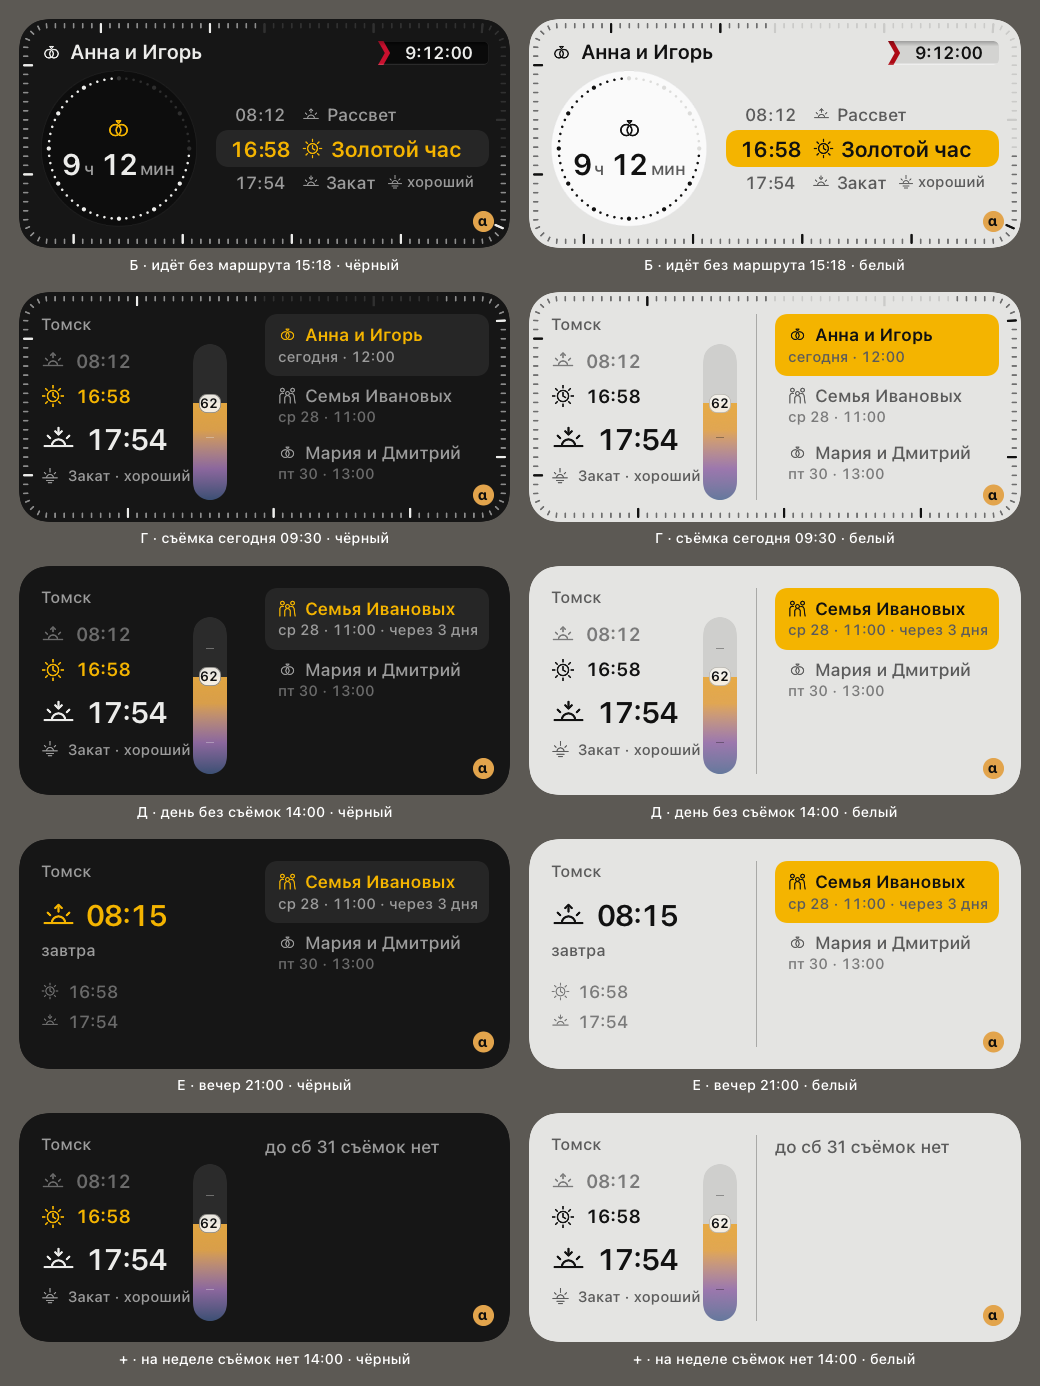
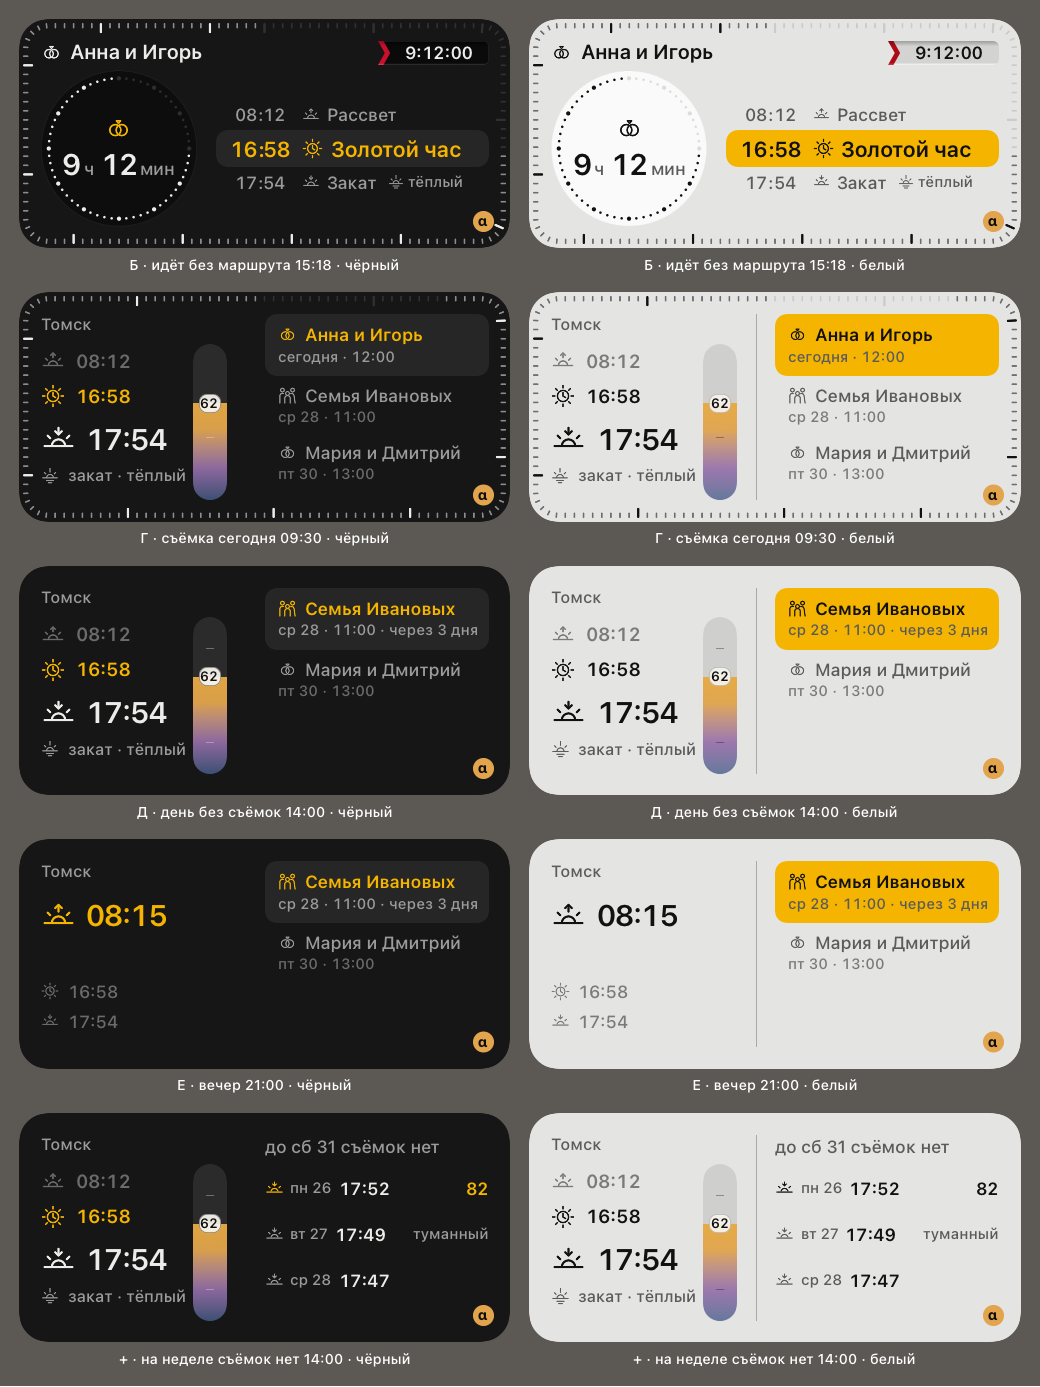
wip: средний Braun без съёмок на неделе показывает закаты трёх следующих дней (30и.13)
Алексей 16.11: «средний виджет без съемок тоже так надо научить, чтобы
пространство не пустовало» — справа под «до вс 22 съёмок нет» было пусто.
Теперь там три строки: день, время заката (считается на месте, есть всегда)
и балл числом, как в линзе столбика; часа в прогнозе нет — слово неба;
прогноза на день нет — одно время. Балл от 75 — янтарём. Только при пустой
неделе; съёмки есть — справа список, как был.

Раскладка: строки без полей (знак на x строки «съёмок нет»), кончаются выше
бирки «α» (3 × 32 на 170 pt, 3 × 28 на 158 pt). «/ 100» убрано: на 338 pt с
ним строка выходила в поле. Слово неба мельчает 11 → 9 по замеру ширины;
со Spacer остаток строки делился пополам и «туманный» резался при свободном
месте.

Прогноз в файле виджета — 3 дня (`ratingDays`): сегодня, завтра, послезавтра,
так что у третьей строки оценки обычно нет — только время. Число дней не
менял (это файл приложения).

Тесты: Domain `anEmptyWeekShowsTheNextThreeSunsets`, вид
`anEmptyWeekFillsTheRightSideWithTheNextSunsets` (строки видны, поле 16 и
место бирки чистые, оба размера, обе темы). Предел картинки листа idle
300 → 320 КБ. Не проходит только запись картинки купольного большого
(large.png 311 КБ > 300) — купол будут переделывать, предел не трогал.

diff --git a/Packages/LightPlanUI/Tests/LightPlanUITests/WidgetBraunIdleViewTests.swift b/Packages/LightPlanUI/Tests/LightPlanUITests/WidgetBraunIdleViewTests.swift
@@ -40,7 +40,8 @@ struct WidgetBraunIdleViewTests {
         case .g: return feed([wedding, ivanov, masha]).frame(at: tsk(9, 30))
         case .d: return feed([ivanov, masha]).frame(at: tsk(14))
         case .e: return feed([ivanov, masha], []).frame(at: tsk(21))
-        case .z: return feed([]).frame(at: tsk(14))
+        // Пустая неделя: прогноз и на следующие дни — под строкой «съёмок нет» закаты с баллом, со словом (часа нет) и без оценки.
+        case .z: return feed([], rating + [.init(day: "2026-10-26", score: 82, quality: .excellent), .init(day: "2026-10-27", score: nil, quality: .fog)]).frame(at: tsk(14))
         }
     }
 
@@ -359,6 +360,46 @@ struct WidgetBraunIdleViewTests {
         #expect(BraunIdle.weekRows(g).count == 3 && 16 + h.near + 2 * h.other + 2 * BraunIdle.weekRowGap <= 158 - 16)
     }
 
+    /// Пустая неделя (Алексей 16.11: «чтобы пространство не пустовало»): под «до сб 31 съёмок нет» — три заката. Самые широкие строки
+    /// (балл «100», слово «туманный») рисуются в правой колонке и не заходят в поле 16 справа и снизу, на обоих размерах и в обеих темах.
+    @Test func anEmptyWeekFillsTheRightSideWithTheNextSunsets() throws {
+        let fc: [WidgetFeed.Rating] = [.init(day: "2026-10-26", score: 100, quality: .excellent), .init(day: "2026-10-27", score: nil, quality: .fog),
+                                       .init(day: "2026-10-28", score: 8, quality: .poor)]
+        let f = WidgetFeed(place: Self.tomsk, shoots: [], forecast: fc).frame(at: Self.tsk(14))
+        #expect(BraunIdle.sunsetRows(f).map(\.day) == ["пн 26", "вт 27", "ср 28"])
+        for p in [Plate.pro, Plate.regular] {
+            for dark in [true, false] {
+                let bg: UInt32 = dark ? 0x161616 : 0xE4E4E2
+                let v = BraunIdleView(frame: f, alpha: false)
+                    .frame(width: p.size.width, height: p.size.height).background(BraunPalette(dark: dark).bg)
+                    .clipShape(RoundedRectangle(cornerRadius: BraunPlate.cornerRadius(plateHeight: p.size.height), style: .continuous))
+                    .environment(\.colorScheme, dark ? .dark : .light)
+                let px = try render(v, scale: 4)
+                let W = Double(p.size.width), H = Double(p.size.height)
+                var rows = 0.0, margin = 0.0, badge = 0.0
+                var y = 4.0
+                while y < H - 4 {
+                    var x = 4.0
+                    while x < W - 4 {
+                        let d = dist(px.rgb(x, y), hex(bg))
+                        if x > 180, x < W - 16, y > 42, y < H - 16, d > 60 { rows += 1 }
+                        // Бирка «α» (12…28 pt от правого нижнего угла) — строки кончаются выше неё: под ней только подложка.
+                        if x > W - 30, y > H - 30, y < H - 16, d > 60, !(x > W - 28 && x < W - 12 && y > H - 28) { badge += 1 }
+                        let right = x > W - 16 + 0.5 && y > 22 && y < H - 22, bottom = y > H - 16 + 0.5 && x > 22 && x < W - 22
+                        if right || bottom { margin = max(margin, d) }
+                        x += 0.5
+                    }
+                    y += 0.5
+                }
+                #expect(rows > 400, "\(p.size.width) \(dark ? "чёрный" : "белый"): строк закатов не видно (\(rows) точек чернил)")
+                #expect(margin <= 8, "\(p.size.width) \(dark ? "чёрный" : "белый"): чернила в поле 16 (\(margin))")
+                #expect(badge == 0, "\(p.size.width) \(dark ? "чёрный" : "белый"): строка у бирки «α» (\(badge))")
+            }
+        }
+        // Съёмки на неделе есть — закатов нет, справа список.
+        #expect(BraunIdle.sunsetRows(Self.frame(.d)).isEmpty)
+    }
+
     /// Имена и вторые строки сначала мельчают и только потом режутся «…»: строки доски влезают целиком на обоих размерах плашки, а
     /// «Анна-Мария и Константин Ковалёвы-Ивановы» уходит до 11 и режется.
     @Test func longNamesStepDownThenTruncate() {
@@ -499,7 +540,8 @@ struct WidgetBraunIdleViewTests {
             r.scale = 1.35
             let png = try #require(r.uiImage?.pngData(), "картинка \(tag) не отрисована")
             try png.write(to: URL(fileURLWithPath: "\(dir)/medium_idle_\(tag).png"))
-            #expect(png.count <= 300 * 1024, "medium_idle_\(tag).png: \(png.count / 1024) КБ, предел 300")
+            // Предел 320 КБ (был 300): пустая неделя с 16.11 рисует три строки закатов, лист Pro Max вырос с 297 до 307 КБ.
+            #expect(png.count <= 320 * 1024, "medium_idle_\(tag).png: \(png.count / 1024) КБ, предел 320")
         }
     }
 

diff --git a/LightPlanWidget/Views/BraunIdleWidget.swift b/LightPlanWidget/Views/BraunIdleWidget.swift
@@ -428,6 +428,16 @@ struct BraunIdleContent: View {
             let size = [13.0, 12, 11].first { BraunText.width(line, size: $0, semibold: false) <= w } ?? 11
             Text(line).font(.system(size: size, weight: .medium)).foregroundStyle(pal.muted).lineLimit(1)
                 .frame(width: w, height: 18, alignment: .leading).offset(x: x, y: 16)
+            // Под строкой — закаты трёх следующих дней (Алексей 16.11: «чтобы пространство не пустовало»). Кончаются выше бирки «α» (её квадрат —
+            // 12…28 pt от правого нижнего угла), на всех сборках одинаково: 3 × 32 на 170 pt, 3 × 28 на 158 pt.
+            let sunsets = BraunIdle.sunsetRows(frame)
+            if !sunsets.isEmpty {
+                let top = 40.0, rowH = min(34, (H - 30 - top - BraunIdle.weekRowGap * Double(sunsets.count - 1)) / Double(sunsets.count))
+                VStack(spacing: BraunIdle.weekRowGap) {
+                    ForEach(sunsets.indices, id: \.self) { i in BraunSunsetRow(row: sunsets[i], pal: pal, width: w, height: rowH) }
+                }
+                .frame(width: w, alignment: .topLeading).offset(x: x, y: top)
+            }
         } else {
             let h = BraunIdle.weekRowHeights(plateHeight: H)
             VStack(spacing: BraunIdle.weekRowGap) {
@@ -437,6 +447,42 @@ struct BraunIdleContent: View {
             }
             .frame(width: w, alignment: .topLeading).offset(x: x, y: 16)
         }
+    }
+}
+
+/// Закат следующего дня (пустая неделя): знак заката 14, «пн 26» 11, время 13 semibold; справа балл числом, как в линзе столбика слева («82»,
+/// без «/ 100»: с ним на 338 pt строка выходила в поле), или слово неба. Без полей: знак стоит на x строки «до сб 31 съёмок нет». День, время и
+/// балл не режутся; мельчает (11 → 9, `wordSize`) и режется только слово неба. Балл от 75 («красивый», `BigWidget.scoreWord`) — янтарём: такой закат стоит заметить.
+struct BraunSunsetRow: View {
+    let row: BraunIdle.SunsetRow
+    let pal: BraunPalette
+    let width: Double
+    let height: Double
+
+    /// Кегль слова неба: 11 → 10 → 9, первый, что влезает в остаток строки после знака, дня и времени; не влез и 9 — режется «…».
+    static func wordSize(_ row: BraunIdle.SunsetRow, width: Double) -> Double {
+        guard let word = row.word else { return 11 }
+        let rest = width - 14 - BraunText.width(row.day, size: 11, semibold: false) - BraunText.width(row.time, size: 13, semibold: true, mono: true) - 5 * 3 - 4
+        return [11.0, 10, 9].first { BraunText.width(word, size: $0, semibold: false) <= rest } ?? 9
+    }
+
+    var body: some View {
+        let good = (row.score ?? 0) >= 75
+        HStack(spacing: 5) {
+            WidgetIcon(name: BraunSign.light(.sunset), size: 14, line: 1.5).frame(width: 14, height: 14).foregroundStyle(good ? pal.amber : pal.muted)
+            Text(row.day).font(.system(size: 11, weight: .medium)).foregroundStyle(pal.muted).lineLimit(1).fixedSize()
+            Text(row.time).font(.system(size: 13, weight: .semibold)).monospacedDigit().foregroundStyle(pal.text).lineLimit(1).fixedSize()
+            // Хвост берёт весь остаток строки и прижат вправо: со `Spacer` остаток делился пополам и слово резалось при свободном месте.
+            Group {
+                if let score = row.score {
+                    Text("\(score)").font(.system(size: 13, weight: .semibold)).monospacedDigit().foregroundStyle(good ? pal.amber : pal.text)
+                } else if let word = row.word {
+                    Text(word).font(.system(size: Self.wordSize(row, width: width), weight: .medium)).foregroundStyle(pal.muted)
+                }
+            }
+            .lineLimit(1).padding(.leading, 4).frame(maxWidth: .infinity, alignment: .trailing)
+        }
+        .frame(width: width, height: height, alignment: .leading)
     }
 }
 

diff --git a/Packages/LightPlanDomain/Sources/LightPlanDomain/Rules/WidgetFrame.swift b/Packages/LightPlanDomain/Sources/LightPlanDomain/Rules/WidgetFrame.swift
@@ -94,6 +94,17 @@ public struct WidgetFrame: Equatable, Sendable {
     /// Сколько суток и строк занимает неделя среднего вида: семь суток от сегодняшних, три строки (больше в высоту не влезает).
     public static let weekDays = 7, weekRows = 3
 
+    /// Закат одного из следующих дней: полдень дня (от него день недели и число), время заката (`nil` — полярные сутки) и оценка, если она есть.
+    public struct SunsetAhead: Equatable, Sendable {
+        public var noon: Date
+        public var sunset: Date?
+        public var rating: WidgetFeed.Rating?
+    }
+    /// Закаты дней с завтрашнего: ими средний вид заполняет пустую неделю (Алексей 16.11: «чтобы пространство не пустовало»).
+    public var ahead: [SunsetAhead] = []
+    /// Сколько дней: столько строк влезает под строку «съёмок нет» (три, как строк недели).
+    public static let aheadDays = 3
+
     /// Время на плашке в часах `tz`, по привычке приложения (24 или 12 часов, язык приложения).
     public func clock(_ date: Date, in tz: TimeZone) -> String {
         Self.clock(date, in: tz, lang: lang, clock12: clock12)
@@ -179,6 +190,11 @@ extension WidgetFeed {
         f.tomorrowRating = rating(on: today.adding(days: 1))
         f.week = Array(unfinished(at: now).map { shootFrame($0, at: now) }.filter { $0.dayOffset < WidgetFrame.weekDays }.prefix(WidgetFrame.weekRows))
         f.weekEnd = Self.noon(of: today.adding(days: WidgetFrame.weekDays - 1), in: tz)
+        f.ahead = (1...WidgetFrame.aheadDays).compactMap { off in
+            let d = today.adding(days: off)
+            guard let noon = Self.noon(of: d, in: tz) else { return nil }
+            return WidgetFrame.SunsetAhead(noon: noon, sunset: spot.light(on: d)?.sunset, rating: rating(on: d))
+        }
         f.url = Self.dayURL(today)
 
         if let live = unfinished(at: now).first(where: { $0.startDate <= now }) {

diff --git a/Packages/LightPlanDomain/Sources/LightPlanDomain/Rules/WidgetBraunIdle.swift b/Packages/LightPlanDomain/Sources/LightPlanDomain/Rules/WidgetBraunIdle.swift
@@ -169,6 +169,26 @@ public enum BraunIdle {
         return f.words[.noShootsUntil].replacingOccurrences(of: "{d}", with: dayAndNumber(end, in: f.zone, f))
     }
 
+    /// Строка заката следующего дня под «съёмок нет»: «пн 26», время заката, балл или (часа в прогнозе нет) слово неба.
+    public struct SunsetRow: Equatable, Sendable {
+        public var day: String
+        public var time: String
+        public var score: Int?
+        public var word: String?
+    }
+
+    /// Закаты на три дня вперёд — только когда неделя пуста (Алексей 16.11). Прогноза на день нет — строка с одним временем:
+    /// время заката считается на месте, оценку не выдумываем. Ровно столько дней, сколько есть в `ahead`.
+    public static func sunsetRows(_ f: WidgetFrame) -> [SunsetRow] {
+        guard emptyWeekLine(f) != nil else { return [] }
+        return f.ahead.map { a in
+            SunsetRow(day: dayAndNumber(a.noon, in: f.zone, f),
+                      time: a.sunset.map { f.clock($0, in: f.zone) } ?? "—",
+                      score: a.rating?.score,
+                      word: a.rating?.score == nil ? a.rating?.category.map { f.words.sky($0) } : nil)
+        }
+    }
+
     // MARK: Что оценивает виджет (30б.2в-6)
 
     /// Событие, которое оценивает средний вид, и его оценка. Слова Алексея 27.10: «виджет до конца утреннего золотого часа показывает

diff --git a/Packages/LightPlanDomain/Tests/LightPlanDomainTests/WidgetBraunIdleTests.swift b/Packages/LightPlanDomain/Tests/LightPlanDomainTests/WidgetBraunIdleTests.swift
@@ -218,6 +218,19 @@ struct WidgetBraunIdleTests {
         #expect(BraunIdle.weekRows(anon).first?.names == "Свадьба")
     }
 
+    @Test func anEmptyWeekShowsTheNextThreeSunsets() throws {
+        let fc: [WidgetFeed.Rating] = [.init(day: "2026-10-25", score: 40, quality: .plain), .init(day: "2026-10-26", score: 82, quality: .excellent),
+                                       .init(day: "2026-10-27", score: nil, quality: .poor)]
+        let f = feed(forecast: fc).frame(at: tsk(14))
+        let rows = BraunIdle.sunsetRows(f)
+        #expect(rows.map(\.day) == ["пн 26", "вт 27", "ср 28"], "с завтрашнего дня, сегодняшний закат стоит слева")
+        #expect(rows.map(\.score) == [82, nil, nil] && rows.map(\.word) == [nil, "серый", nil], "балл; нет часа — слово; нет прогноза — ничего")
+        let sun = try #require(f.ahead.first?.sunset)
+        #expect(rows.first?.time == f.clock(sun, in: f.zone) && rows.allSatisfy { $0.time.contains(":") }, "время заката есть у всех трёх дней")
+        let busy = feed([shoot("a", from: tsk(11, day: 28), to: tsk(13, day: 28))], forecast: fc).frame(at: tsk(14))
+        #expect(BraunIdle.sunsetRows(busy).isEmpty, "съёмки на неделе есть — закатов нет, там список")
+    }
+
     @Test func anEmptyWeekIsOneLineUntilTheLastDay() {
         let f = feed().frame(at: tsk(14))
         #expect(BraunIdle.emptyWeekLine(f) == "до сб 31 съёмок нет", "25.10 + 6 суток = суббота 31.10 — слово доски")
